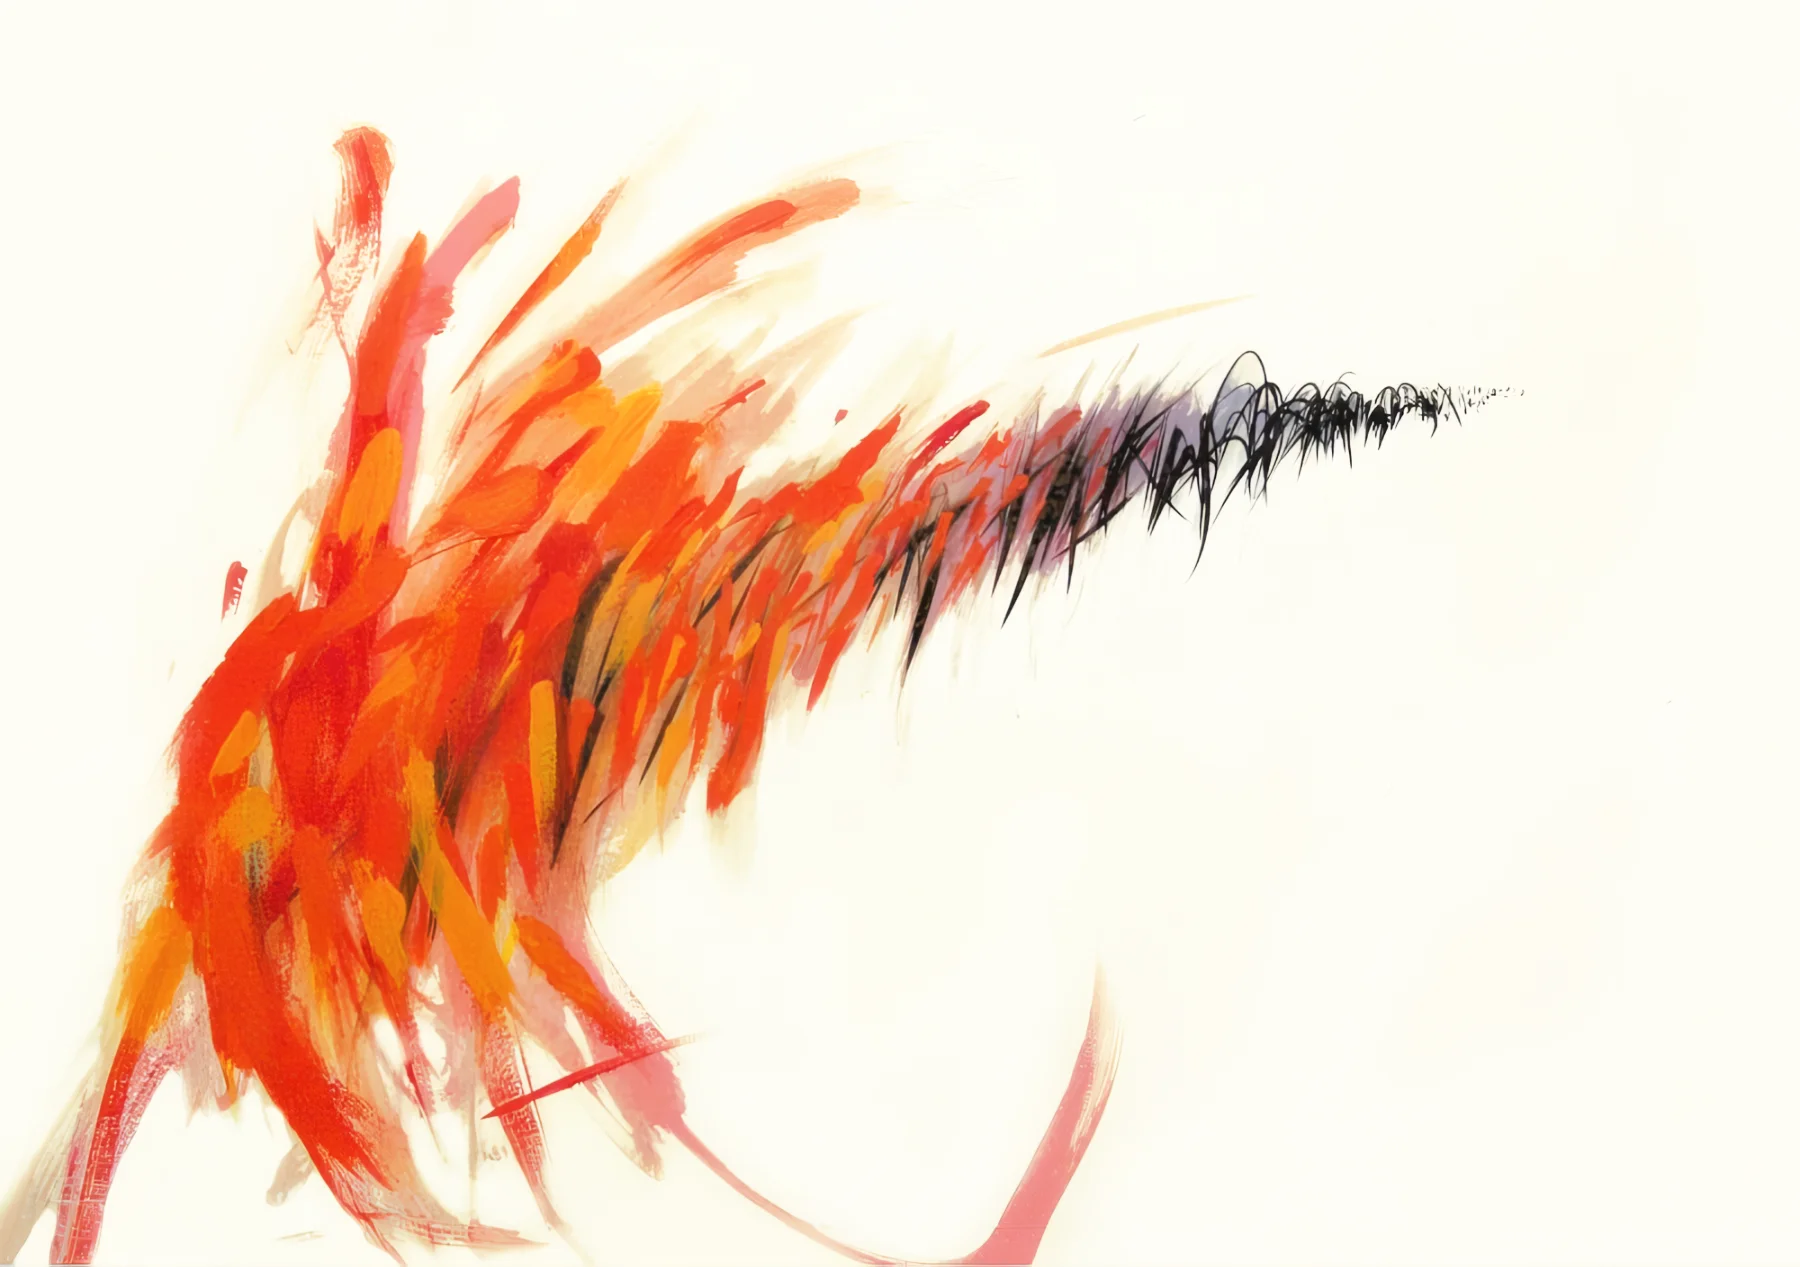
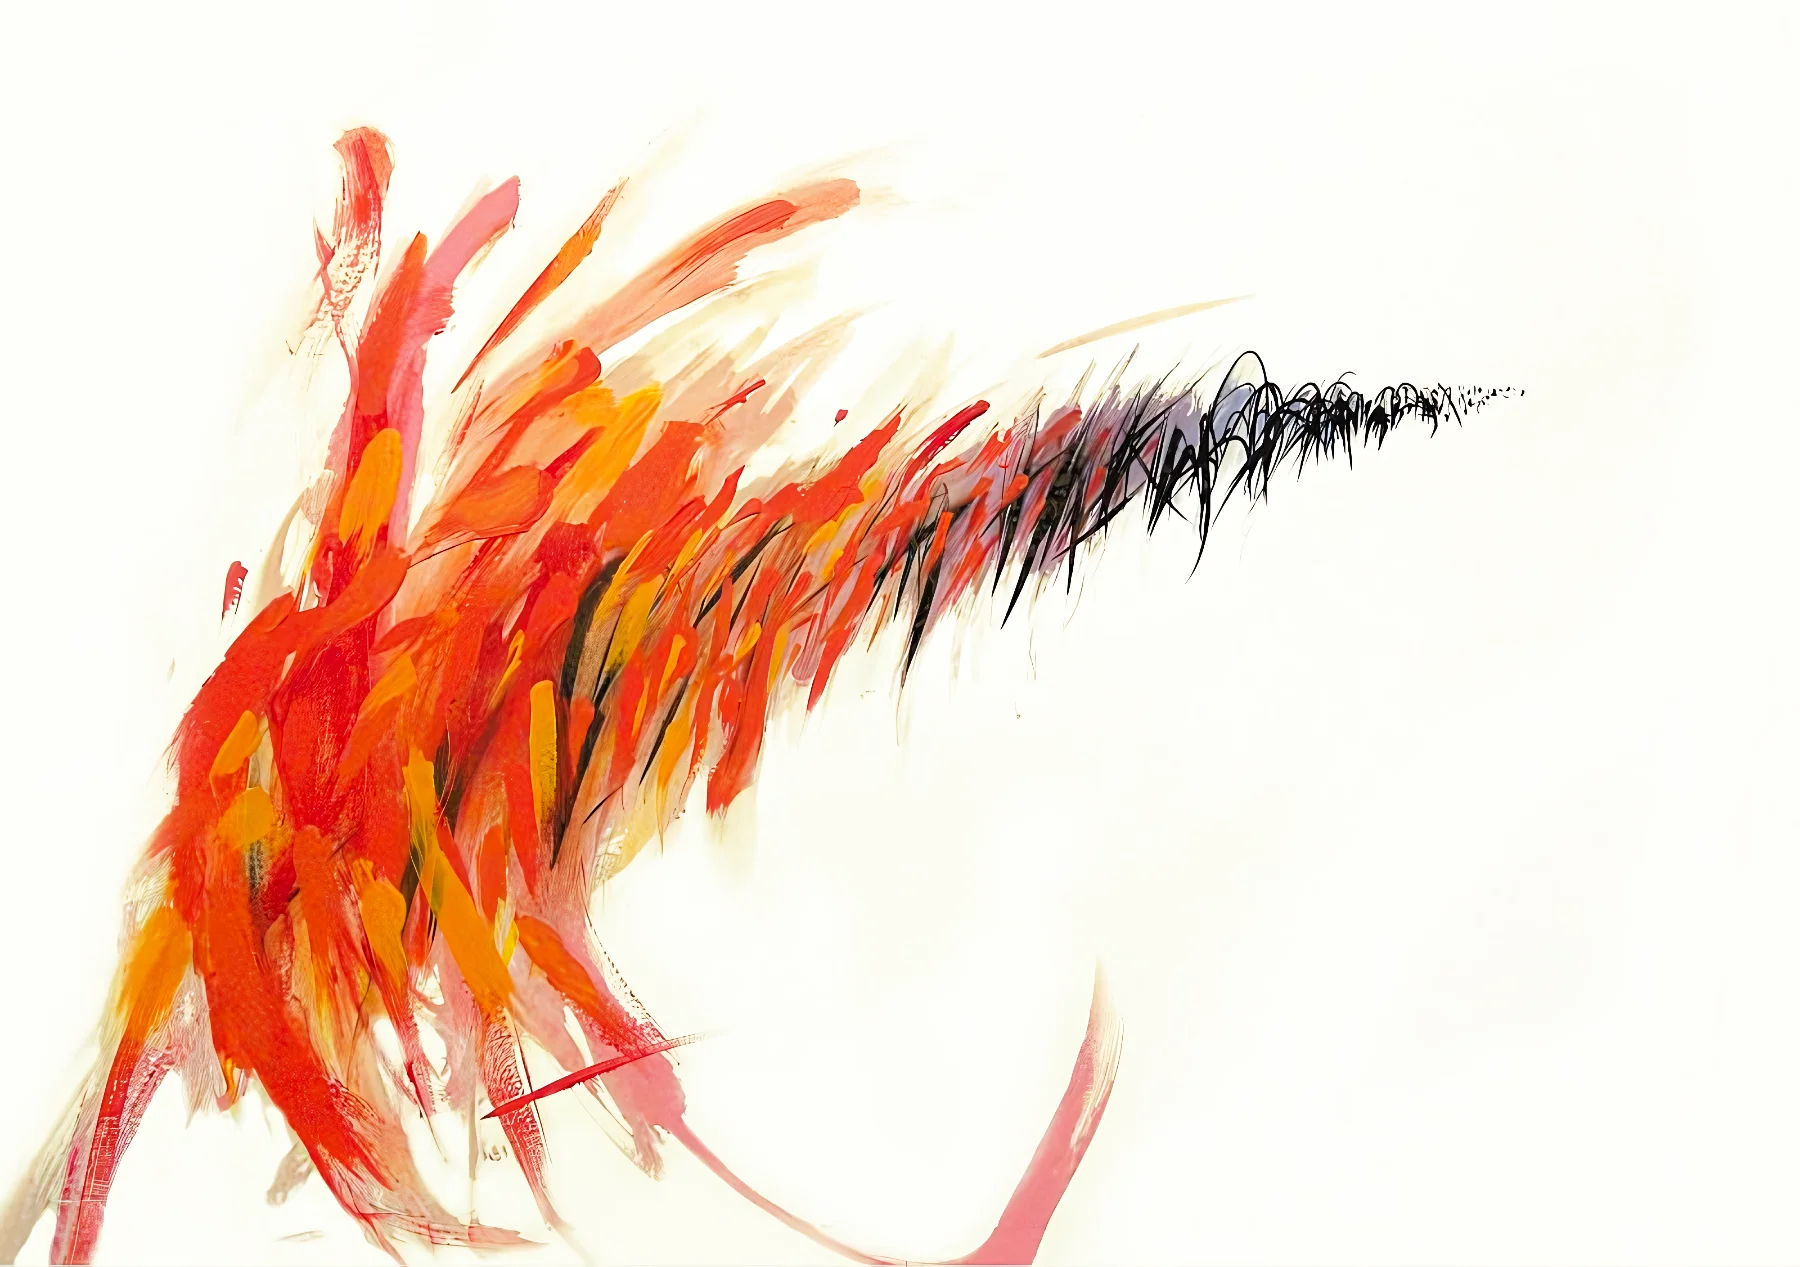
Update homepage hero image to use hero.webp
- Update English and German homepage files to use /images/uploads/hero.webp
- Replaces hartzheim_hero_background_enhanced2.webp with the new hero.webp

diff --git a/content/homepage/index.de.md b/content/homepage/index.de.md
@@ -1,5 +1,5 @@
 ---
-hero_image: /images/uploads/hartzheim_hero_background_enhanced2.webp
+hero_image: /images/uploads/hero.webp
 quote_text: "'THE SUBCONSCIOUS DICTATES!'"
 quote_author: ANDRÉ MASSON
 show_quote: true

diff --git a/content/homepage/index.en.md b/content/homepage/index.en.md
@@ -1,5 +1,5 @@
 ---
-hero_image: /images/uploads/hartzheim_hero_background_enhanced2.webp
+hero_image: /images/uploads/hero.webp
 quote_text: "'THE SUBCONSCIOUS DICTATES!'"
 quote_author: ANDRÉ MASSON
 show_quote: true
